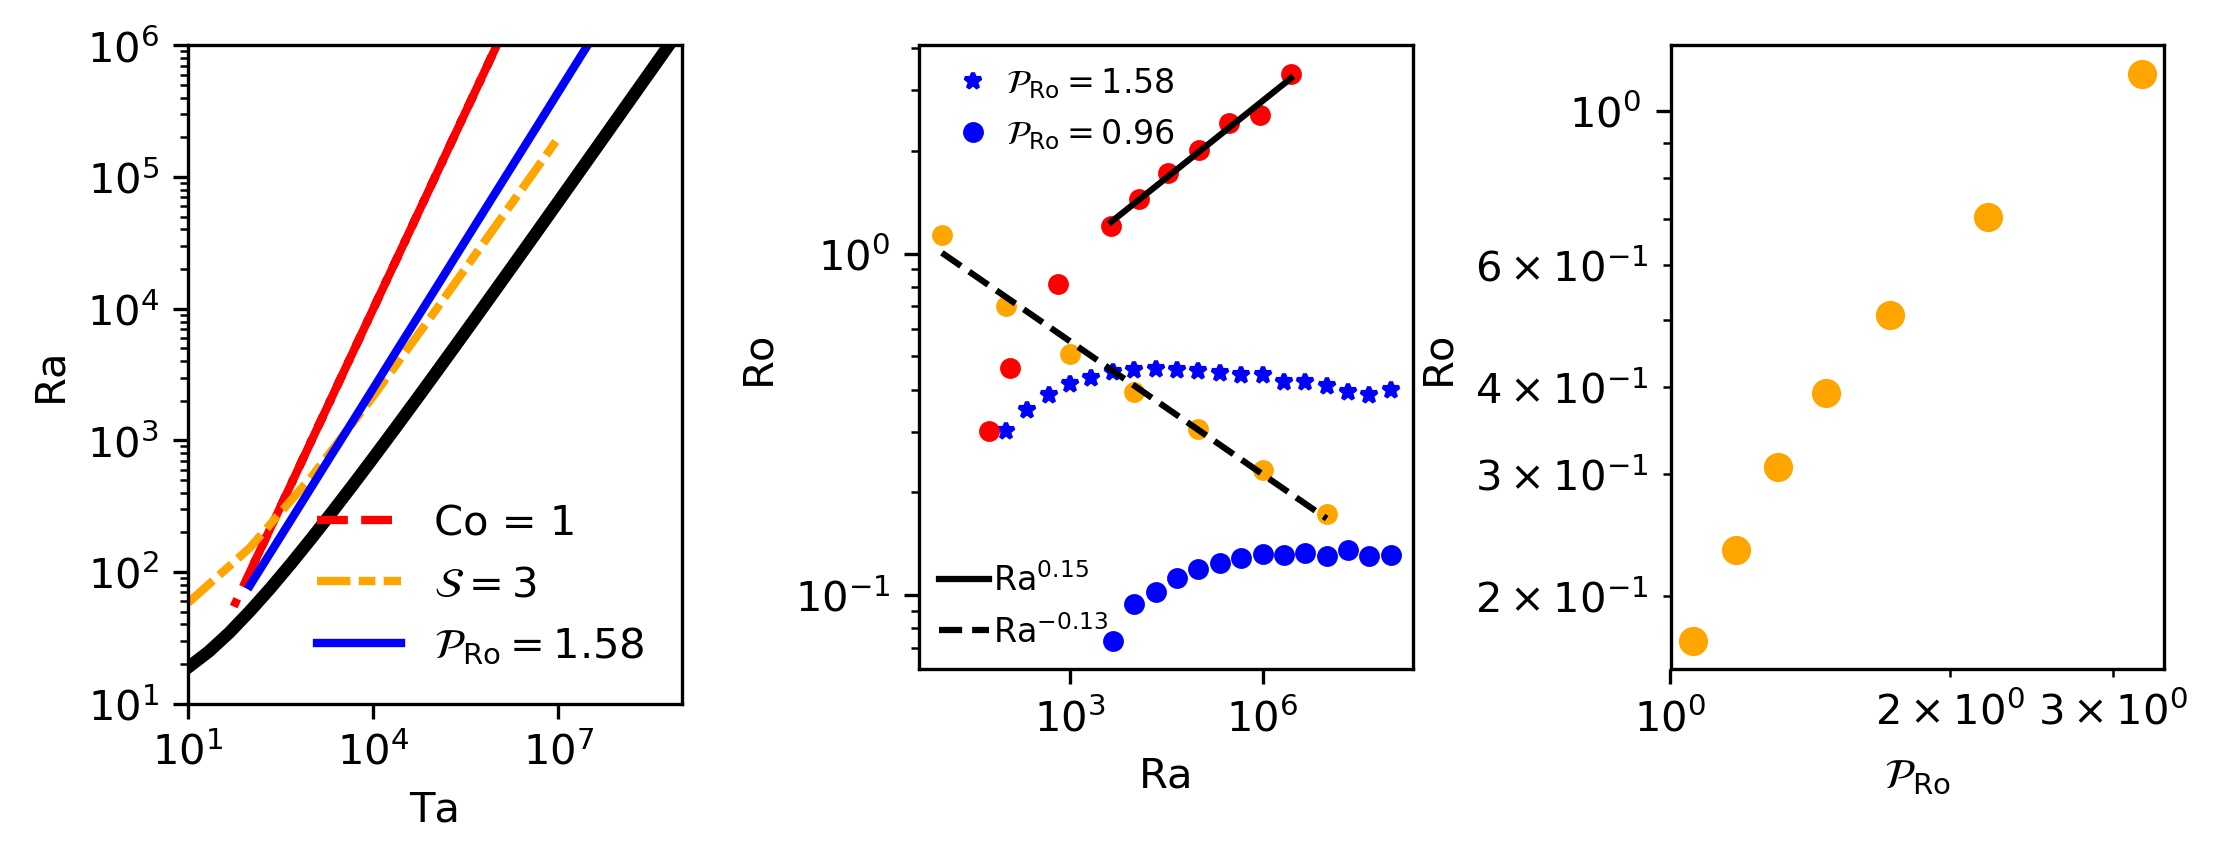
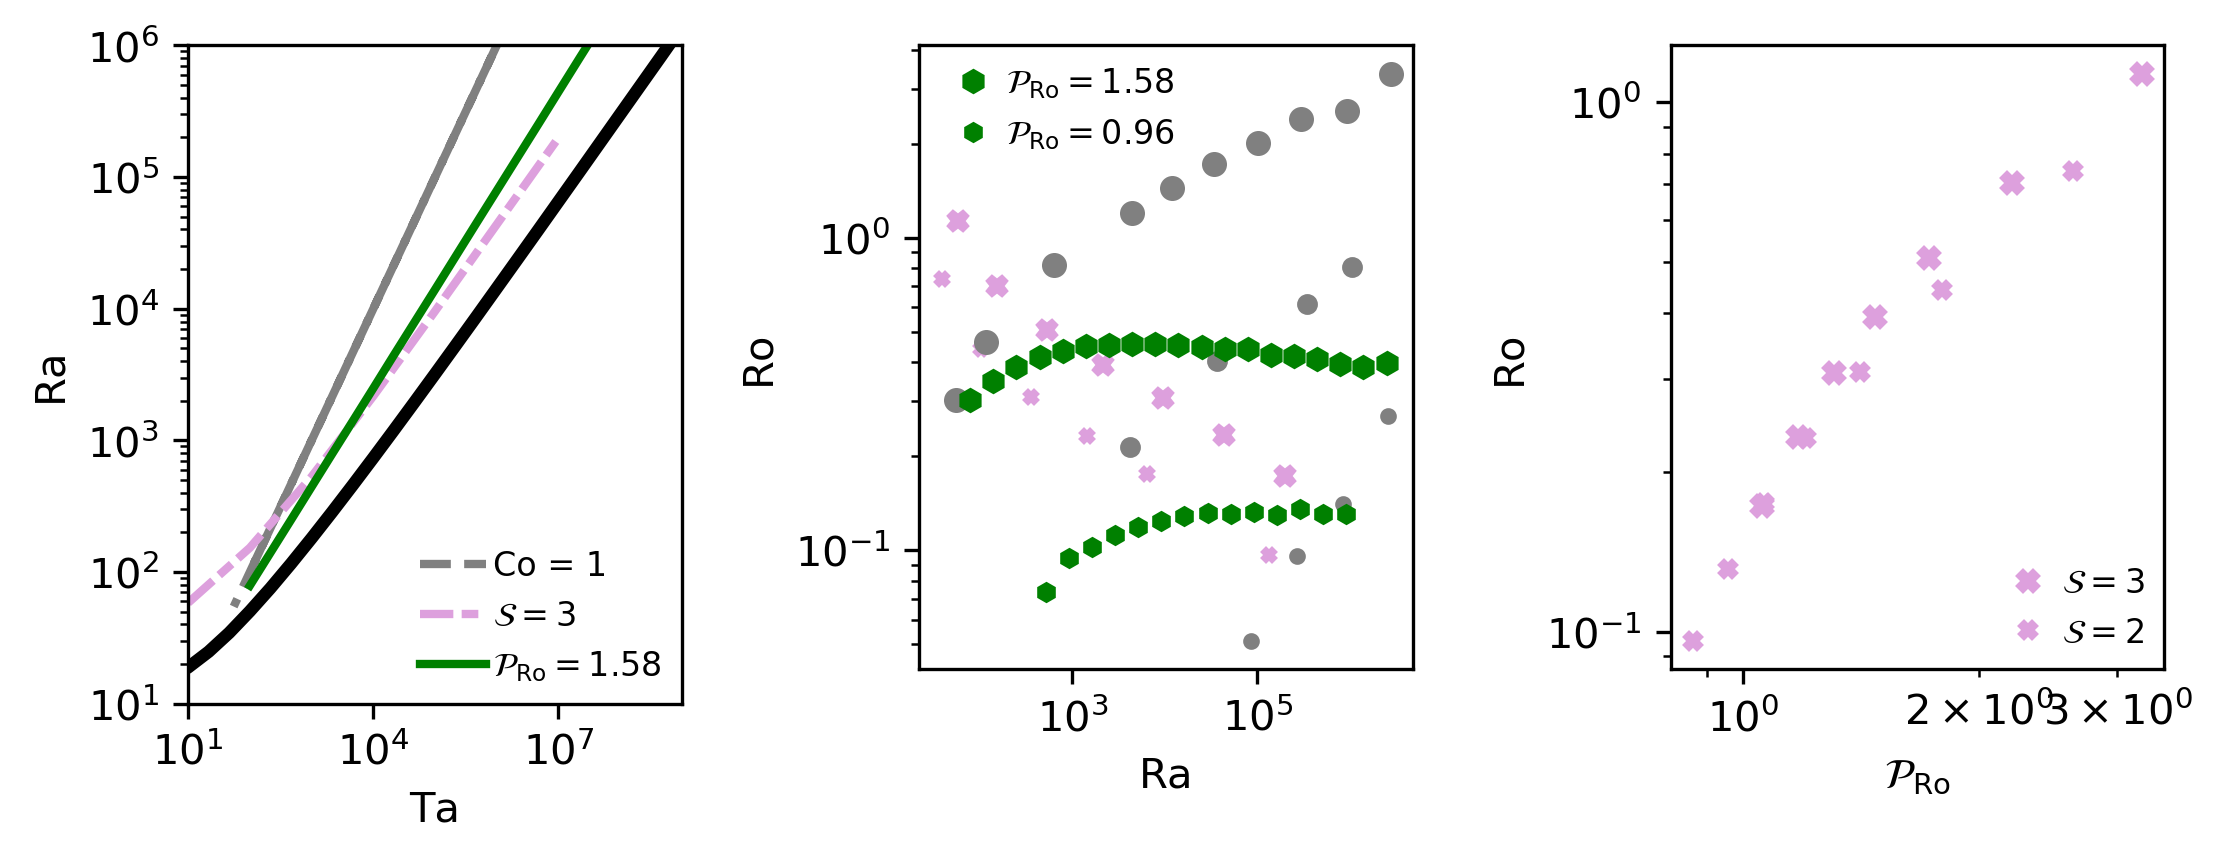
figure improvements

diff --git a/plots/fig1.py b/plots/fig1.py
@@ -19,20 +19,24 @@ onset_data = np.genfromtxt('../data/eps1e-4_onsets.csv', skip_header=1, delimite
 ax1.plot(onset_data[:,0], onset_data[:,1], c='k', lw=3)
 
 original_co = np.genfromtxt('../data/coprime_data_original_co_runs.csv', skip_header=1, delimiter=',', usecols=(2,4,6)) #ra, ro, ta -- need to double check if this is backwards ra/ta.
+print( original_co[:,0]/original_co[:,2])
 co1 = original_co[:,0]/original_co[:,2] == 1
+co03 = np.sqrt(original_co[:,0]/original_co[:,2]) == 0.3
+co01 = np.sqrt(original_co[:,0]/original_co[:,2]) == 0.1
 x, y = original_co[co1, 2], original_co[co1, 0]
-ax1.plot(x, y, c='r', ls='--', lw=2, label='Co = 1')
+ax1.plot(x, y, c='grey', ls='--', lw=2, label='Co = 1')
 
 sigma = np.genfromtxt('../data/coprime_data_sigma_runs.csv', skip_header=1, delimiter=',', usecols=(2,4,5,6)) #ra, ro, sigma, ta
-sig1 = sigma[:,2] == 2
+sig2 = sigma[:,2] == 2
+sig1_1 = sigma[:,2] == 1
 
-ax1.plot(sigma[sig1, 3], sigma[sig1, 0], c='orange', dashes=(4,1,2,1), lw=2, label=r'$\mathcal{S}=3$')
+ax1.plot(sigma[sig2, 3], sigma[sig2, 0], c='plum', dashes=(4,1,2,1), lw=2, label=r'$\mathcal{S}=3$')
 
 new_c = np.genfromtxt('../data/ra_ta0.75_AR4_alldata.csv', skip_header=1, delimiter=',', usecols=(0,1,2,5)) #sigma, ra, ta, ro
 c957 = new_c[:,0] == 0.957
 c158 = new_c[:,0] == 1.58
 #ax1.plot(new_c[c957, 2], new_c[c957, 1])
-ax1.plot(new_c[c158, 2], new_c[c158, 1], c='blue', lw=2, label=r'$\mathcal{P}_{\mathrm{Ro}} = 1.58$')
+ax1.plot(new_c[c158, 2], new_c[c158, 1], c='green', lw=2, label=r'$\mathcal{P}_{\mathrm{Ro}} = 1.58$')
 
 
 ax1.set_xlim(1e1, 1e9)
@@ -41,31 +45,34 @@ ax1.set_xscale('log')
 ax1.set_yscale('log')
 ax1.set_xlabel('Ta')
 ax1.set_ylabel('Ra')
-ax1.legend(loc='lower right', frameon=False)
+ax1.legend(loc='lower right', fontsize=8, frameon=False, borderpad=0.1, handletextpad=0.2)
 
 
 #PLOT 2
 
-ax2.plot(new_c[c158, 2], new_c[c158, 3], marker='*', color='blue', lw=0, ms=4, label=r'$\mathcal{P}_{\mathrm{Ro}} = 1.58$')
-ax2.plot(new_c[c957, 2], new_c[c957, 3], marker='o', color='blue', lw=0, ms=4, label=r'$\mathcal{P}_{\mathrm{Ro}} = 0.96$')
-ax2.plot(sigma[sig1, 3], sigma[sig1, 1], marker='o', color='orange', lw=0, ms=4)
-ax2.plot(original_co[co1, 0], original_co[co1, 1], marker='o', color='red', lw=0, ms=4)
+ax2.plot(sigma[sig2, 0], sigma[sig2, 1], marker='X', color='plum', lw=0, ms=4.5)
+ax2.plot(sigma[sig1_1, 0], sigma[sig1_1, 1], marker='X', color='plum', lw=0, ms=3)
+ax2.plot(original_co[co1, 0], original_co[co1, 1], marker='o', color='grey', lw=0, ms=5)
+ax2.plot(original_co[co03, 0], original_co[co03, 1], marker='o', color='grey', lw=0, ms=4)
+ax2.plot(original_co[co01, 0], original_co[co01, 1], marker='o', color='grey', lw=0, ms=3)
+ax2.plot(new_c[c158, 1], new_c[c158, 3], marker='h', color='green', lw=0, ms=5, label=r'$\mathcal{P}_{\mathrm{Ro}} = 1.58$')
+ax2.plot(new_c[c957, 1], new_c[c957, 3], marker='h', color='green', lw=0, ms=4, label=r'$\mathcal{P}_{\mathrm{Ro}} = 0.96$')
 ax2.legend(loc='upper left', fontsize=8, frameon=False, borderpad=0.1, handletextpad=0)
 
 lines, labels = [], []
 co1_ra = original_co[co1, 0][original_co[co1, 0] >= 1e3]
 co1_ro = original_co[co1, 1][original_co[co1, 0] >= 1e3]
-p = np.polyfit(np.log10(co1_ra), np.log10(co1_ro), deg=1)
-str2 = 'Ra$^{' + '{:.2f}'.format(p[0]) + '}$'
-str2 = r'{:s}'.format(str2)
-lines += ax2.plot(co1_ra, 10**(p[1])*co1_ra**(p[0]), label=r'{:s}'.format(str2), c='k')
-labels += [str2]
-
-p = np.polyfit(np.log10(sigma[sig1, 3]), np.log10(sigma[sig1,1]), deg=1)
-str2 = 'Ra$^{' + '{:.2f}'.format(p[0]) + '}$'
-str2 = r'{:s}'.format(str2)
-lines += ax2.plot(sigma[sig1,3], 10**(p[1])*sigma[sig1,3]**(p[0]), label=r'{:s}'.format(str2), c='k', ls='--')
-labels += [str2]
+#p = np.polyfit(np.log10(co1_ra), np.log10(co1_ro), deg=1)
+#str2 = 'Ra$^{' + '{:.2f}'.format(p[0]) + '}$'
+#str2 = r'{:s}'.format(str2)
+#lines += ax2.plot(co1_ra, 10**(p[1])*co1_ra**(p[0]), label=r'{:s}'.format(str2), c='k')
+#labels += [str2]
+#
+#p = np.polyfit(np.log10(sigma[sig2, 0]), np.log10(sigma[sig2,1]), deg=1)
+#str2 = 'Ra$^{' + '{:.2f}'.format(p[0]) + '}$'
+#str2 = r'{:s}'.format(str2)
+#lines += ax2.plot(sigma[sig2,0], 10**(p[1])*sigma[sig2,0]**(p[0]), label=r'{:s}'.format(str2), c='k', ls='--')
+#labels += [str2]
 
 
 from matplotlib.legend import Legend
@@ -82,9 +89,11 @@ ax2.set_ylabel('Ro')
 
 # PLOT 3
 
-c_sig = np.sqrt(sigma[sig1, 0]/sigma[sig1, 3]**(3/4))
-ax3.plot(c_sig, sigma[sig1, 1], marker='o', lw=0, c='orange')
-p = np.polyfit(np.log10(c_sig), np.log10(sigma[sig1, 1]), deg=1)
+c_sig = np.sqrt(sigma[sig2, 0]/sigma[sig2, 3]**(3/4))
+c_sig_1 = np.sqrt(sigma[sig1_1, 0]/sigma[sig1_1, 3]**(3/4))
+ax3.plot(c_sig, sigma[sig2, 1], marker='X', lw=0, c='plum', ms=5, label='$\mathcal{S} = 3$')
+ax3.plot(c_sig_1, sigma[sig1_1, 1], marker='X', lw=0, c='plum', ms=4, label='$\mathcal{S} = 2$')
+p = np.polyfit(np.log10(c_sig), np.log10(sigma[sig2, 1]), deg=1)
 label_str = 'Ro' + r'$ \propto $'
 str2 = '$\mathcal{P}__{\mathrm{Ro}}^{' + '{:.2f}'.format(p[0]) + '}$'
 #ax3.plot(c_sig, 10**(p[1])*c_sig**(p[0]), label=label_str+r'{:s}'.format(str2))
@@ -93,7 +102,7 @@ ax3.set_yscale('log')
 ax3.set_xscale('log')
 ax3.set_xlabel(r'$\mathcal{P}_{\mathrm{Ro}}$')
 ax3.set_ylabel('Ro')
-ax3.legend(loc='upper right', frameon=False)
+ax3.legend(loc='lower right', fontsize=8, frameon=False, borderpad=0.1, handletextpad=0)
 
 
 fig.savefig('../tex/figs/parameter_space.png', dpi=300, bbox_inches='tight')

diff --git a/plots/fig2.py b/plots/fig2.py
@@ -28,23 +28,21 @@ new_c = np.genfromtxt('../data/ra_ta0.75_AR4_alldata.csv', skip_header=1, delimi
 c957 = new_c[:,0] == 0.957
 c158 = new_c[:,0] == 1.58
 lines, labels = [], []
-lines += ax1.plot(new_c[c957, 1], new_c[c957, 3], c='orange', lw=2, label=r'$\mathcal{P}_{\mathrm{Ro}} = 0.96$')
-lines += ax1.plot(new_c[c158, 1], new_c[c158, 3], c='blue', lw=2, label=r'$\mathcal{P}_{\mathrm{Ro}} = 1.58$')
+lines += ax1.plot(new_c[c957, 1], new_c[c957, 3], c='orange', lw=0, marker='o', ms=4, label=r'$\mathcal{P}_{\mathrm{Ro}} = 0.96$')
+lines += ax1.plot(new_c[c158, 1], new_c[c158, 3], c='blue', lw=0, marker='o', ms=4, label=r'$\mathcal{P}_{\mathrm{Ro}} = 1.58$')
 
 labels += [r'$\mathcal{P}_{\mathrm{Ro}} = 0.96$']
 labels += [r'$\mathcal{P}_{\mathrm{Ro}} = 1.58$']
 
 
 p = np.polyfit(np.log10(new_c[c158,1]), np.log10(new_c[c158, 3]), deg=1)
-label_str = 'Nu' + r'$ \propto $'
 str2 = 'Ra$^{' + '{:.2f}'.format(p[0]) + '}$'
-labels += [label_str+r'{:s}'.format(str2)]
-lines += ax1.plot(new_c[c158, 1], 10**(p[1])*new_c[c158, 1]**(p[0]), label=label_str+r'{:s}'.format(str2), color='blue', alpha=0.4)
+labels += [r'{:s}'.format(str2)]
+lines += ax1.plot(new_c[c158, 1], 10**(p[1])*new_c[c158, 1]**(p[0]), label=r'{:s}'.format(str2), color='blue', alpha=0.4)
 p = np.polyfit(np.log10(new_c[c957,1]), np.log10(new_c[c957, 3]), deg=1)
-label_str = 'Nu' + r'$ \propto $'
 str2 = 'Ra$^{' + '{:.2f}'.format(p[0]) + '}$'
-labels += [label_str+r'{:s}'.format(str2)]
-lines += ax1.plot(new_c[c957, 1], 10**(p[1])*new_c[c957, 1]**(p[0]), label=label_str+r'{:s}'.format(str2), color='orange', alpha=0.4)
+labels += [r'{:s}'.format(str2)]
+lines += ax1.plot(new_c[c957, 1], 10**(p[1])*new_c[c957, 1]**(p[0]), label=r'{:s}'.format(str2), color='orange', alpha=0.4)
 
 ax1.legend(lines[:2], labels[:2], loc='upper left', frameon=False)
 from matplotlib.legend import Legend
@@ -58,23 +56,21 @@ ax1.set_ylabel('Nu')
 
 lines, labels = [], []
 #PLOT 2
-lines += ax2.plot(new_c[c957, 1], new_c[c957, 4], c='orange', lw=2, label=r'$\mathcal{P}_{\mathrm{Ro}} = 0.96$')
-lines += ax2.plot(new_c[c158, 1], new_c[c158, 4], c='blue', lw=2, label=r'$\mathcal{P}_{\mathrm{Ro}} = 1.58$')
+lines += ax2.plot(new_c[c957, 1], new_c[c957, 4], c='orange', lw=0, marker='o', ms=4, label=r'$\mathcal{P}_{\mathrm{Ro}} = 0.96$')
+lines += ax2.plot(new_c[c158, 1], new_c[c158, 4], c='blue', lw=0, marker='o', ms=4, label=r'$\mathcal{P}_{\mathrm{Ro}} = 1.58$')
 ax2.legend(loc='upper left', frameon=False)
 
 labels += [r'$\mathcal{P}_{\mathrm{Ro}} = 0.96$']
 labels += [r'$\mathcal{P}_{\mathrm{Ro}} = 1.58$']
 
 p = np.polyfit(np.log10(new_c[c158,1]), np.log10(new_c[c158, 4]), deg=1)
-label_str = 'Re' + r'$ \propto $'
 str2 = 'Ra$^{' + '{:.2f}'.format(p[0]) + '}$'
-labels += [label_str+r'{:s}'.format(str2)]
-lines += ax2.plot(new_c[c158, 1], 10**(p[1])*new_c[c158, 1]**(p[0]), label=label_str+r'{:s}'.format(str2), color='blue', alpha=0.4)
+labels += [r'{:s}'.format(str2)]
+lines += ax2.plot(new_c[c158, 1], 10**(p[1])*new_c[c158, 1]**(p[0]), label=r'{:s}'.format(str2), color='blue', alpha=0.4)
 p = np.polyfit(np.log10(new_c[c957,1]), np.log10(new_c[c957, 4]), deg=1)
-label_str = 'Re' + r'$ \propto $'
 str2 = 'Ra$^{' + '{:.2f}'.format(p[0]) + '}$'
-labels += [label_str+r'{:s}'.format(str2)]
-lines += ax2.plot(new_c[c957, 1], 10**(p[1])*new_c[c957, 1]**(p[0]), label=label_str+r'{:s}'.format(str2), color='orange', alpha=0.4)
+labels += [r'{:s}'.format(str2)]
+lines += ax2.plot(new_c[c957, 1], 10**(p[1])*new_c[c957, 1]**(p[0]), label=r'{:s}'.format(str2), color='orange', alpha=0.4)
 
 ax2.legend(lines[:2], labels[:2], loc='upper left', frameon=False)
 from matplotlib.legend import Legend
